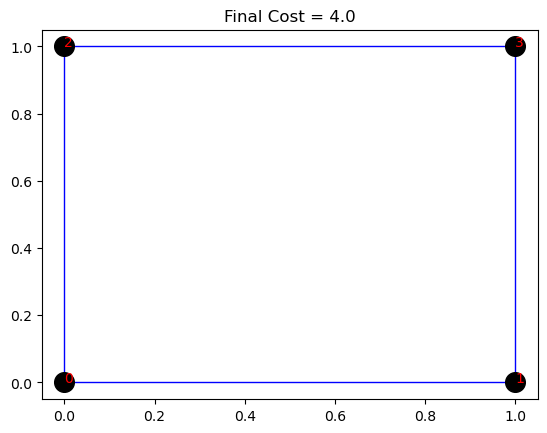
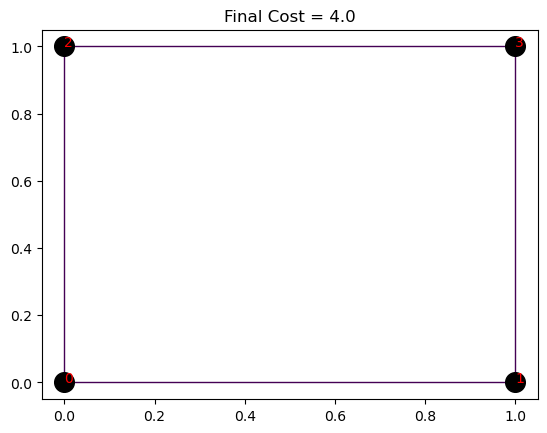
coloring of routes working

diff --git a/src/problem/cvrp.py b/src/problem/cvrp.py
@@ -6,6 +6,7 @@ import numpy as np
 from matplotlib import pyplot as plt
 from matplotlib.path import Path
 from scipy.spatial.distance import cdist
+import matplotlib.colors as mcolors
 
 from problem import instance
 from problem.route import Route
@@ -111,7 +112,6 @@ class CVRP:
         """
         fig, ax = plt.subplots()
         pos = self.coordinates
-
         plt.title(title)
 
         # Plot nodes ids
@@ -126,11 +126,14 @@ class CVRP:
             )  # id
 
         # Plot the routes
-        route_color = ["b", "g", "r", "c", "m", "k"]
+        colormap = plt.cm.viridis
+        route_ids = routes.keys()
+        norm = mcolors.Normalize(vmin = min(route_ids), vmax = max(route_ids))
+        colors = {id: colormap(norm(id)) for id in route_ids} # Get a unique color for each route_id        
 
-        for index, route in enumerate(routes.values()):
+        for id, route in routes.items():
             if len(route.nodes) > 0:
-                col = route_color[index]
+                col = colors[id]
                 verts = [pos[n] for n in route.nodes]
                 path = Path(verts)
                 patch = patches.PathPatch(

diff --git a/src/main.py b/src/main.py
@@ -18,7 +18,7 @@ if __name__ == "__main__":
     # )
 
     # Solve
-    instance = "01"
+    instance = "02"
     instance_folder = os.path.join(FOLDER_INSTANCES, instance)
     filepath = os.path.join(instance_folder, instance) + ".json"
     data = CVRP(filepath)
